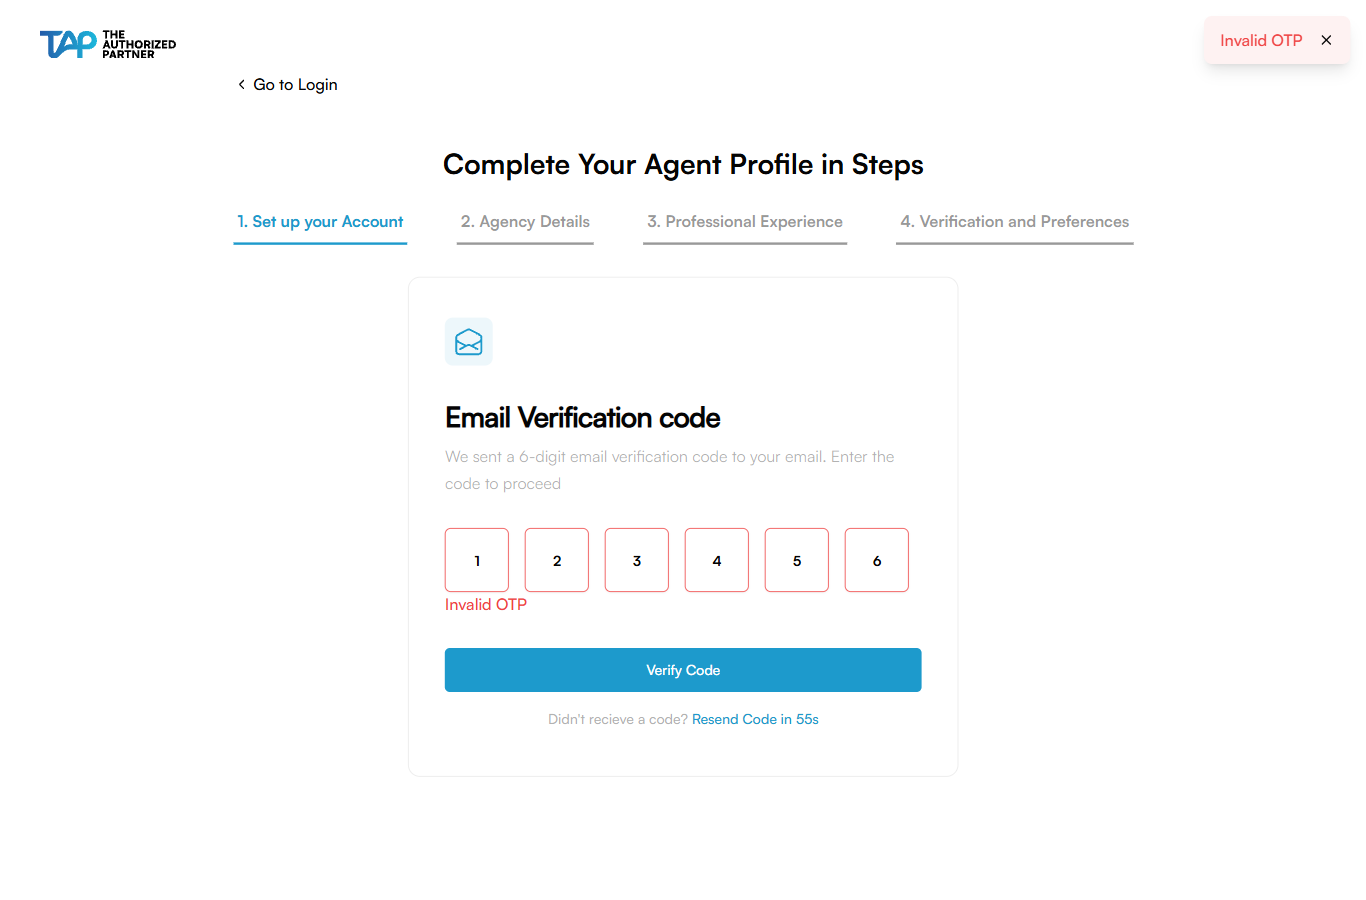
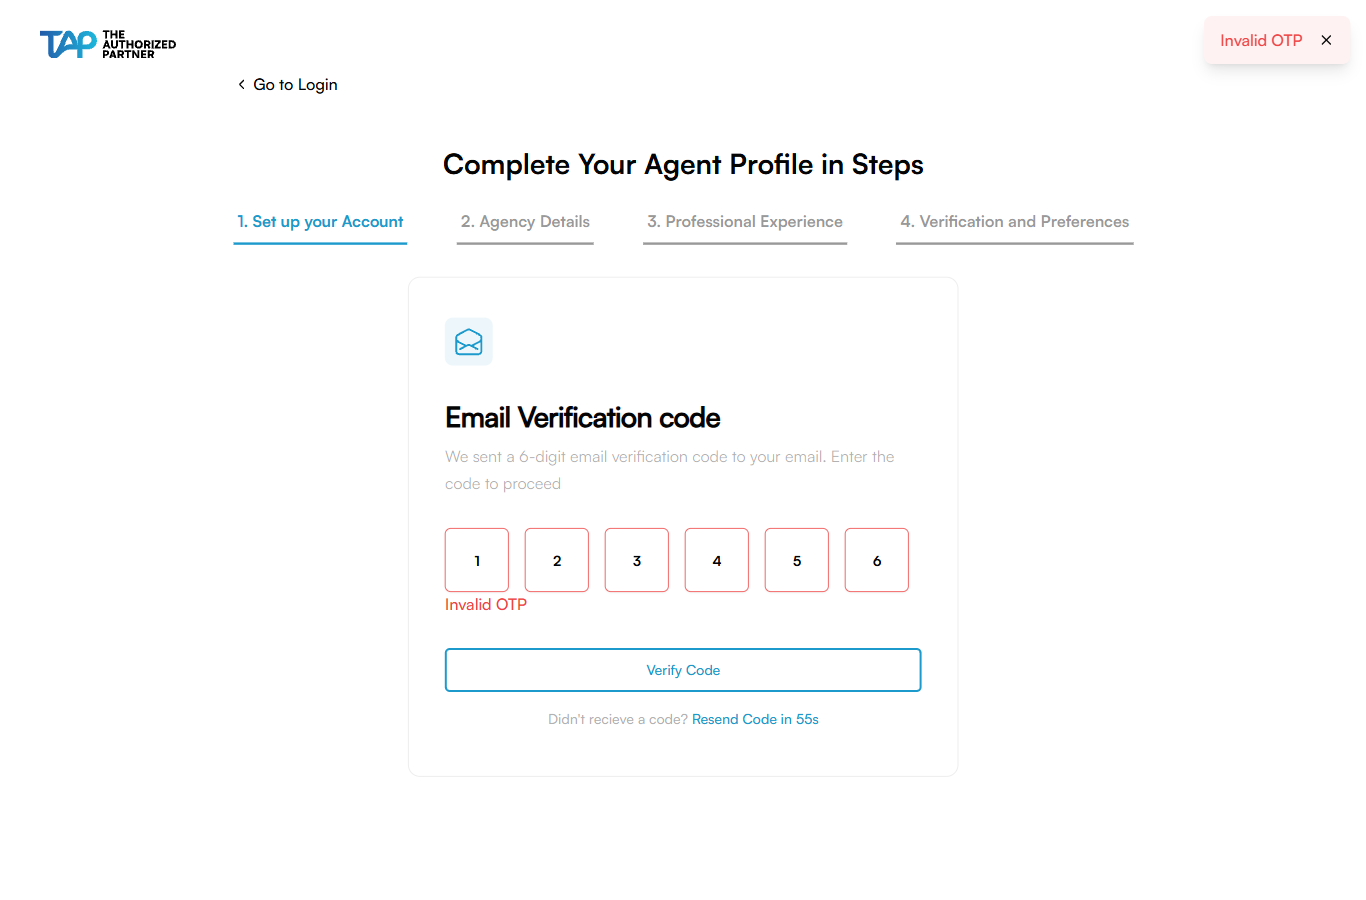
Updated signup automation and fixed OTP validation

Changed region(s): [[0.3075, 0.7156, 0.6764, 0.7778]]

diff --git a/tests/test_signup.py b/tests/test_signup.py
@@ -1,10 +1,13 @@
 """pytest wrapper: `python -m pytest -v` runs the full signup flow headless."""
+from http.server import BaseHTTPRequestHandler, ThreadingHTTPServer
 import sys
 from pathlib import Path
+from threading import Thread
 
 import pytest
 
 sys.path.insert(0, str(Path(__file__).resolve().parent.parent))
+import signup_automation  # noqa: E402
 from signup_automation import load_data, run  # noqa: E402
 
 
@@ -14,11 +17,38 @@ def test_load_data_uses_legitimate_otp_from_config(monkeypatch):
     assert data["otp"] == "654321"
 
     monkeypatch.setenv("TEST_OTP", "   ")
-    data = load_data()
-    assert data["otp"] == "123456"
+    with pytest.raises(ValueError, match="No verification code configured"):
+        load_data()
 
 
-def test_agency_signup_completes_end_to_end():
-    result = run(headless=True)
+def test_agency_signup_completes_end_to_end(monkeypatch, tmp_path):
+    mock_html = (Path(__file__).resolve().parent.parent / "mock_site" / "index.html").read_bytes()
+
+    class MockHandler(BaseHTTPRequestHandler):
+        def do_GET(self):
+            self.send_response(200)
+            self.send_header("Content-Type", "text/html; charset=utf-8")
+            self.end_headers()
+            self.wfile.write(mock_html)
+
+        def log_message(self, _format, *args):
+            pass
+
+    server = ThreadingHTTPServer(("127.0.0.1", 0), MockHandler)
+    thread = Thread(target=server.serve_forever, daemon=True)
+    thread.start()
+    base_url = f"http://127.0.0.1:{server.server_port}"
+    monkeypatch.setattr(signup_automation, "BASE_URL", base_url)
+    monkeypatch.setattr(signup_automation, "REGISTER_URL", f"{base_url}/register")
+    monkeypatch.setattr(signup_automation, "REPORT_DIR", tmp_path / "reports")
+    monkeypatch.setenv("TEST_OTP", "123456")
+
+    try:
+        result = run(headless=True)
+    finally:
+        server.shutdown()
+        server.server_close()
+        thread.join()
+
     assert result["status"] == "PASSED", result["failure_reason"]
-    assert len(result["steps"]) >= 2, "expected a multi-page flow"
+    assert len(result["steps"]) == 4, "expected the mock wizard's four interactive pages"

diff --git a/README.md b/README.md
@@ -44,13 +44,15 @@ python -m pytest -v                              # same flow via pytest
 
 Optional environment variables: `BASE_URL`, `TEST_EMAIL`, `TEST_PASSWORD`, `TEST_OTP`,
 `CHROMIUM_PATH` (use a system browser), `BROWSER_ARGS` (e.g. `--no-sandbox`).
-The script never invents an OTP: it uses `TEST_OTP` or the value in `test_data.json`, and it raises a clear error if neither provides a real code.
+The script requires a website-issued OTP through `TEST_OTP` or `test_data.json`; it
+does not supply a default or guess a code, and raises a clear error if no OTP is configured.
 
 ## Test data
 `test_data.json` - a fresh email is generated each run from `email_template`
 (`qa.agent+<timestamp>@example.com`). If the site sends a real verification email/OTP,
 set `TEST_EMAIL` to an inbox you control (plus-addressing works) and `TEST_OTP` to the code,
-or use an email-testing service.
+or use an email-testing service. The included test suite uses the local mock wizard and its
+test-only code; it does not submit registrations to the live site.
 Note: each run submits a real registration to the live site. Test data is clearly labelled as QA data.
 
 ## Output / test report

diff --git a/reports/latest/TEST_REPORT.md b/reports/latest/TEST_REPORT.md
@@ -1,10 +1,10 @@
 # Test Report - Authorized Partner signup automation
 
 - **Result:** FAIL
-- **Started:** 2026-11-14T15:00:59   **Duration:** 56.4s
+- **Started:** 2026-11-14T16:18:52   **Duration:** 57.7s
 - **Target:** https://authorized-partner.vercel.app/register
 - **Evidence:** step 4: page did not advance after submit (validation: ['Invalid OTP', 'Notification Invalid OTP'])
-- **Email used:** `qa.agent+20261114150059@example.com`
+- **Email used:** `qa.agent+20261114161852@example.com`
 
 ## Environment
 
@@ -30,7 +30,7 @@ URL: `https://authorized-partner.vercel.app/register?step=setup`  |  Clicked: **
 |---|---|---|
 | First Name | first_name | Test |
 | Last Name | last_name | Agent |
-| Email Address | email | qa.agent+20261114150059@example.com |
+| Email Address | email | qa.agent+20261114161852@example.com |
 | Phone Number | phone | 9812345678 |
 | Phone Number | phone | 9812345678 |
 | Password | password | ******** |
